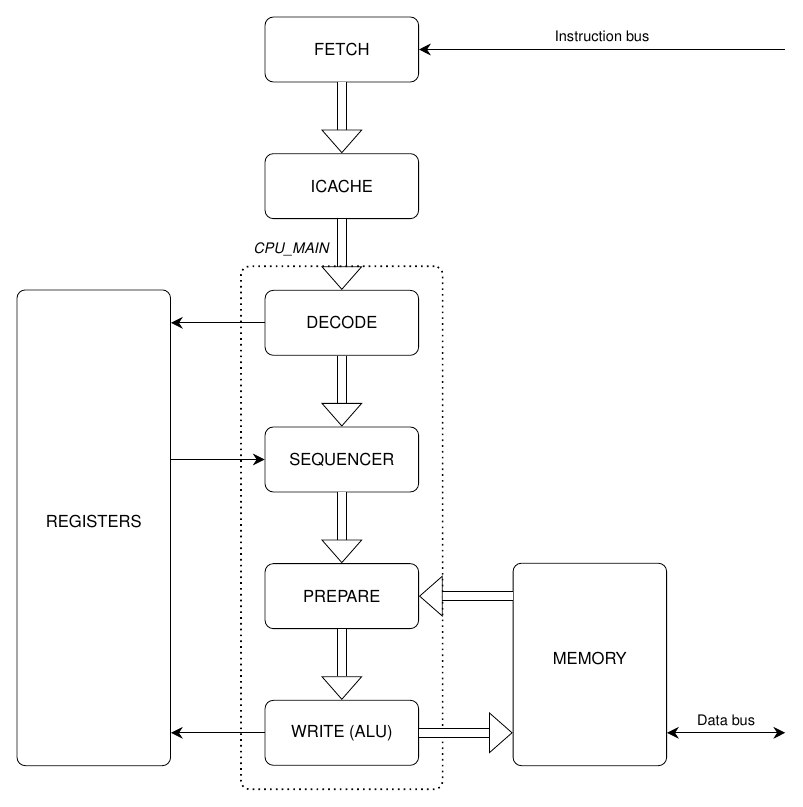
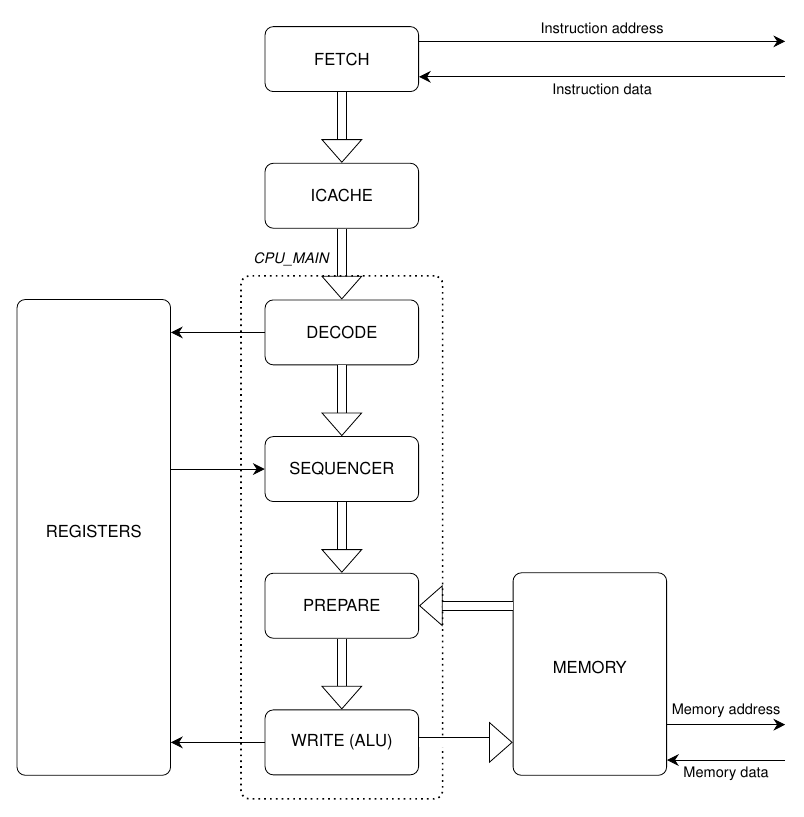
doc: split each Wishbone bus into an address and a data arrow
The block diagram drew each bus as a single arrow: "Instruction bus"
pointing into FETCH and a bidirectional "Data bus" at MEMORY. Draw each
as the pair it is instead -- the address leaving the CPU, the data coming
back -- so the picture says which way each half runs:

  Instruction address ->    Instruction data <-
  Memory address      ->    Memory data      <-

The two arrows of a pair sit 3mm either side of the edge anchor they used
to share, which keeps both inside the 11mm height of the box they attach
to. Labels go above the upper arrow and below the lower one, so they fall
outside the pair rather than crowding the 6mm gap between them.

Two knock-on tidy-ups: buslabel no longer hardcodes "above", since the
direction is now chosen per arrow; and the biwire style is removed, the
data bus having been its last user -- the REGISTERS/DECODE link stopped
being bidirectional when the register read data moved to the SEQUENCER.

Note the data bus also carries write data outward, so the left-pointing
"Memory data" shows only half of what that wire does. Drawn this way
deliberately.

Verified on the render: no ink touches the outer border, so nothing is
clipped; the image grows 807 -> 817 px tall, which is the new label above
the top arrow.

Claude-Session: https://claude.ai/code/session_01YASMoGh2yMXUvpfxtEJ1uC

diff --git a/doc/cpu.tex b/doc/cpu.tex
@@ -48,8 +48,9 @@
       },
       % Thin arrows: everything that is not the pipeline data path.
       wire/.style   = {draw, -{Stealth[length=2mm, width=2mm]}},
-      biwire/.style = {draw, {Stealth[length=2mm, width=2mm]}-{Stealth[length=2mm, width=2mm]}},
-      buslabel/.style = {midway, above, font = \sffamily\scriptsize}
+      % "above" or "below" is chosen per arrow, so that the two labels of a
+      % bus pair sit outside the pair rather than in the gap between them.
+      buslabel/.style = {midway, font = \sffamily\scriptsize}
    ]
 
    %% ---------------------------------------------------------------
@@ -127,12 +128,25 @@
    %% The two Wishbone buses
    %% ---------------------------------------------------------------
 
-   \coordinate (busx) at ([xshift = 20mm] memory.east);
+   % Each bus is drawn as the pair it is: the address leaves the CPU, the data
+   % comes back. The two arrows of a pair are 3mm either side of the edge
+   % anchor they would otherwise share, which keeps both inside the 11mm height
+   % of the box they attach to.
+   \coordinate (busx)  at ([xshift = 20mm] memory.east);
+   \coordinate (ibusl) at (fetch.east);
+   \coordinate (ibusr) at (busx |- fetch.east);
+   \coordinate (dbusl) at (memory.east |- write.east);
+   \coordinate (dbusr) at (busx |- write.east);
 
-   \draw[wire]   (busx |- fetch.east) -- (fetch.east)
-      node[buslabel] {Instruction bus};
-   \draw[biwire] (memory.east |- write.east) -- (busx |- write.east)
-      node[buslabel] {Data bus};
+   \draw[wire] ([yshift =  3mm] ibusl) -- ([yshift =  3mm] ibusr)
+      node[buslabel, above] {Instruction address};
+   \draw[wire] ([yshift = -3mm] ibusr) -- ([yshift = -3mm] ibusl)
+      node[buslabel, below] {Instruction data};
+
+   \draw[wire] ([yshift =  3mm] dbusl) -- ([yshift =  3mm] dbusr)
+      node[buslabel, above] {Memory address};
+   \draw[wire] ([yshift = -3mm] dbusr) -- ([yshift = -3mm] dbusl)
+      node[buslabel, below] {Memory data};
 
 \end{tikzpicture}
 
